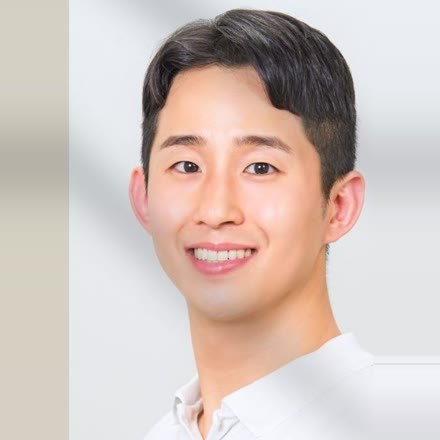
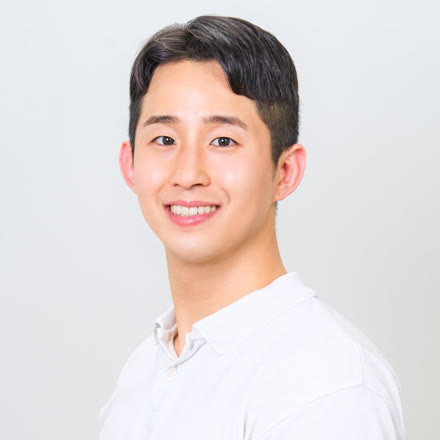
style(coaches): 안승은 썸네일을 단독 정면 헤드샷으로 교체
Claude-Session: https://claude.ai/code/session_01YK9HQvrv3Y1sNWaYjeQ75g

diff --git a/coach_detail.html b/coach_detail.html
@@ -7,7 +7,7 @@
   <meta name="theme-color" content="#2563EB" />
   <link rel="manifest" href="manifest.json" />
   <title>트레이너 소개 · 헬피짐</title>
-  <link rel="stylesheet" href="css/style.css?v=16" />
+  <link rel="stylesheet" href="css/style.css?v=17" />
 </head>
 <body>
   <main class="shell shell--coach-detail">
@@ -28,9 +28,9 @@
     </div>
   </main>
 
-  <script src="js/config.js?v=16"></script>
-  <script src="js/coaches-data.js?v=16"></script>
-  <script src="js/coaches.js?v=16"></script>
-  <script src="js/app.js?v=16"></script>
+  <script src="js/config.js?v=17"></script>
+  <script src="js/coaches-data.js?v=17"></script>
+  <script src="js/coaches.js?v=17"></script>
+  <script src="js/app.js?v=17"></script>
 </body>
 </html>

diff --git a/coaches.html b/coaches.html
@@ -7,7 +7,7 @@
   <meta name="theme-color" content="#2563EB" />
   <link rel="manifest" href="manifest.json" />
   <title>트레이너 · 헬피짐</title>
-  <link rel="stylesheet" href="css/style.css?v=16" />
+  <link rel="stylesheet" href="css/style.css?v=17" />
 </head>
 <body>
   <main class="shell shell--coaches">
@@ -30,9 +30,9 @@
     </div>
   </main>
 
-  <script src="js/config.js?v=16"></script>
-  <script src="js/coaches-data.js?v=16"></script>
-  <script src="js/coaches.js?v=16"></script>
-  <script src="js/app.js?v=16"></script>
+  <script src="js/config.js?v=17"></script>
+  <script src="js/coaches-data.js?v=17"></script>
+  <script src="js/coaches.js?v=17"></script>
+  <script src="js/app.js?v=17"></script>
 </body>
 </html>

diff --git a/facility_suggestion.html b/facility_suggestion.html
@@ -7,7 +7,7 @@
   <meta name="theme-color" content="#2563EB" />
   <link rel="manifest" href="manifest.json" />
   <title>시설 건의하기 · 헬피짐</title>
-  <link rel="stylesheet" href="css/style.css?v=16" />
+  <link rel="stylesheet" href="css/style.css?v=17" />
 </head>
 <body>
   <main class="shell shell--facility">
@@ -109,8 +109,8 @@
     </section>
   </main>
 
-  <script src="js/config.js?v=16"></script>
-  <script src="js/app.js?v=16"></script>
-  <script src="js/facility.js?v=16"></script>
+  <script src="js/config.js?v=17"></script>
+  <script src="js/app.js?v=17"></script>
+  <script src="js/facility.js?v=17"></script>
 </body>
 </html>

diff --git a/index.html b/index.html
@@ -8,7 +8,7 @@
   <meta name="theme-color" content="#2563EB" />
   <link rel="manifest" href="manifest.json" />
   <title>헬피짐</title>
-  <link rel="stylesheet" href="css/style.css?v=16" />
+  <link rel="stylesheet" href="css/style.css?v=17" />
 </head>
 <body>
   <main class="shell shell--home">
@@ -45,7 +45,7 @@
     </nav>
   </main>
 
-  <script src="js/config.js?v=16"></script>
-  <script src="js/app.js?v=16"></script>
+  <script src="js/config.js?v=17"></script>
+  <script src="js/app.js?v=17"></script>
 </body>
 </html>

diff --git a/quick_inquiry.html b/quick_inquiry.html
@@ -7,7 +7,7 @@
   <meta name="theme-color" content="#2563EB" />
   <link rel="manifest" href="manifest.json" />
   <title>빠른 문의하기 · 헬피짐</title>
-  <link rel="stylesheet" href="css/style.css?v=16" />
+  <link rel="stylesheet" href="css/style.css?v=17" />
 </head>
 <body>
   <main class="shell shell--form">
@@ -59,7 +59,7 @@
     </form>
   </main>
 
-  <script src="js/config.js?v=16"></script>
-  <script src="js/app.js?v=16"></script>
+  <script src="js/config.js?v=17"></script>
+  <script src="js/app.js?v=17"></script>
 </body>
 </html>

diff --git a/trial_lesson.html b/trial_lesson.html
@@ -7,7 +7,7 @@
   <meta name="theme-color" content="#2563EB" />
   <link rel="manifest" href="manifest.json" />
   <title>체험레슨 신청 · 헬피짐</title>
-  <link rel="stylesheet" href="css/style.css?v=16" />
+  <link rel="stylesheet" href="css/style.css?v=17" />
 </head>
 <body>
   <main class="shell shell--form">
@@ -63,7 +63,7 @@
     </form>
   </main>
 
-  <script src="js/config.js?v=16"></script>
-  <script src="js/app.js?v=16"></script>
+  <script src="js/config.js?v=17"></script>
+  <script src="js/app.js?v=17"></script>
 </body>
 </html>

diff --git a/inquiry_sent.html b/inquiry_sent.html
@@ -7,7 +7,7 @@
   <meta name="theme-color" content="#2563EB" />
   <link rel="manifest" href="manifest.json" />
   <title>접수 완료 · 헬피짐</title>
-  <link rel="stylesheet" href="css/style.css?v=16" />
+  <link rel="stylesheet" href="css/style.css?v=17" />
 </head>
 <body>
   <main class="shell">

diff --git a/sw.js b/sw.js
@@ -1,6 +1,6 @@
 /* 간단한 서비스워커 — 정적 파일 캐시로 오프라인/빠른 로딩 지원
    ※ CACHE 버전은 커밋 시 .githooks/pre-commit 훅이 자동으로 올려줍니다. */
-var CACHE = "healthy-gym-v16";
+var CACHE = "healthy-gym-v17";
 var ASSETS = [
   "index.html",
   "quick_inquiry.html",